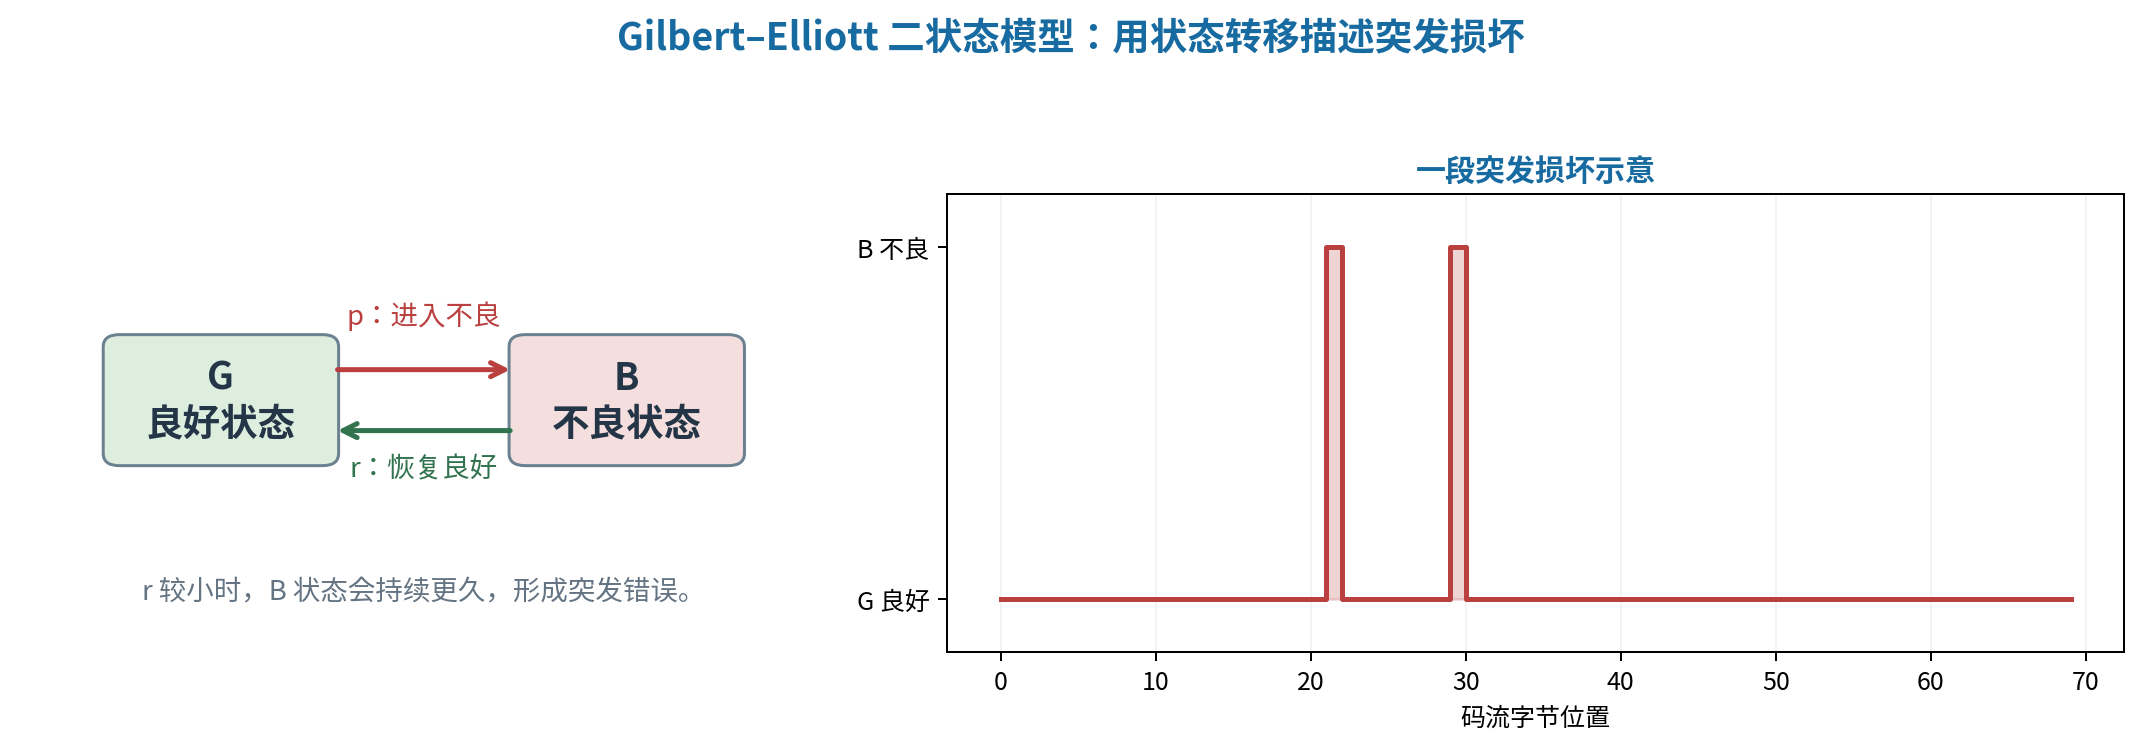
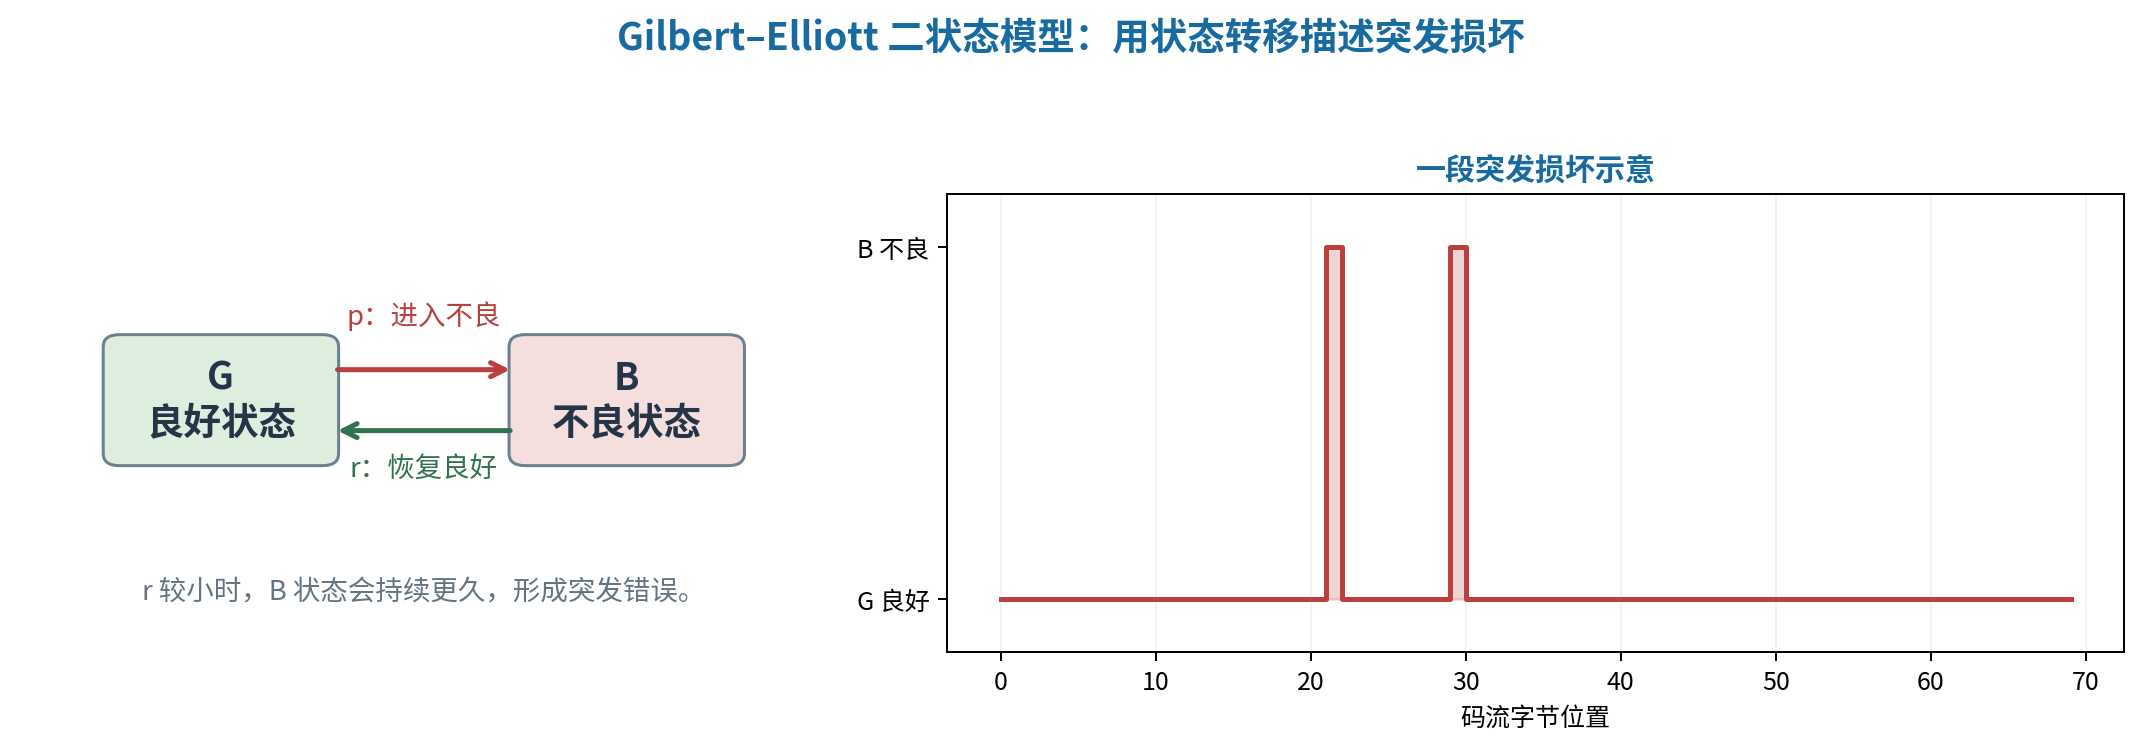
Use simplified Chinese fonts in background figures

diff --git a/tools/build_slides.py b/tools/build_slides.py
@@ -147,7 +147,7 @@ def main():
     text(s,2.83,5.46,4.65,.55,'lifangcheng2002@163.com',19,'000000',True)
     text(s,8.0,5.46,4.65,.55,'kjwu@hust.edu.cn',19,'000000',True)
     # 2. Multimedia communication and the role of a bitstream.
-    s=d.slide('01 多媒体通信与码流损坏','图像和视频经过压缩编码后，以二进制码流的形式传输、存储和解析。')
+    s=d.slide('01 多媒体通信与码流','图像和视频经过压缩编码后，以二进制码流的形式传输、存储和解析。')
     flow=[('图像 / 视频\n信源',.72),('压缩编码\nJPEG / H.264',3.15),('信道或\n存储介质',5.58),('解码与\n视觉分析',8.01),('分类 / 检测\n内容理解',10.44)]
     for i,(label,x) in enumerate(flow):
         rect(s,x,2.12,2.05,.86,LIGHT,rounded=True)
@@ -155,14 +155,14 @@ def main():
         if i<4:text(s,x+2.08,2.35,.31,.35,'→',20,BLUE,True,PP_ALIGN.CENTER)
     text(s,.82,3.42,5.35,.42,'像素、压缩文件和字节序列',22,INK,True)
     text(s,.86,4.02,5.45,1.46,'同一幅图像可以有不同的表示：\n· 像素矩阵：适合传统视觉网络\n· JPEG 文件：包含标记、表和扫描数据\n· 字节序列：统一处理图像、视频和其他文件',18)
-    text(s,6.65,3.42,5.55,.42,'码流损坏为什么值得研究',22,INK,True)
+    text(s,6.65,3.42,5.55,.42,'码流中包含哪些信息',22,INK,True)
     rect(s,6.63,4.03,2.61,1.20,'DDEEDF',rounded=True)
-    text(s,6.80,4.20,2.27,.39,'传输 / 存储',19,'31734F',True,PP_ALIGN.CENTER)
-    text(s,6.80,4.69,2.27,.34,'可能出现错误字节',15,GRAY,align=PP_ALIGN.CENTER)
-    rect(s,9.63,4.03,2.61,1.20,'F5DEDE',rounded=True)
-    text(s,9.80,4.20,2.27,.39,'解码 / 理解',19,RED,True,PP_ALIGN.CENTER)
-    text(s,9.80,4.69,2.27,.34,'可能无法恢复像素',15,GRAY,align=PP_ALIGN.CENTER)
-    text(s,6.73,5.56,5.36,.90,'码流模型尝试跳过不可靠的解码过程，\n直接从字节中提取内容特征。',19,BLUE,True)
+    text(s,6.80,4.20,2.27,.39,'结构信息',19,'31734F',True,PP_ALIGN.CENTER)
+    text(s,6.80,4.66,2.27,.48,'文件标记、参数表\n帧类型',14,GRAY,align=PP_ALIGN.CENTER)
+    rect(s,9.63,4.03,2.61,1.20,'E8E2F3',rounded=True)
+    text(s,9.80,4.20,2.27,.39,'内容信息',19,'5A4A86',True,PP_ALIGN.CENTER)
+    text(s,9.80,4.66,2.27,.48,'扫描数据、图像与\n视频内容',14,GRAY,align=PP_ALIGN.CENTER)
+    text(s,6.73,5.56,5.36,.90,'码流既是传输和存储的载体，\n也是理解多媒体内容的一种表示。',19,BLUE,True)
     # 3. JPEG structure.
     s=d.slide('02 JPEG：从文件标记到扫描数据','JPEG 不是一串无意义的数字；不同段落共同描述图像如何被解码。')
     picture(s,RESEARCH_FIGURES/'jpeg_bitstream_structure.png',.76,1.94,11.82,3.72)

diff --git a/tools/build_background_figures.py b/tools/build_background_figures.py
@@ -3,12 +3,28 @@ import numpy as np
 import matplotlib.pyplot as plt
 from matplotlib import font_manager
 from matplotlib.patches import FancyBboxPatch, FancyArrowPatch, Rectangle
+from fontTools.ttLib import TTCollection
 
 OUT=Path('research/figures'); OUT.mkdir(parents=True,exist_ok=True)
-font_manager.fontManager.addfont('/usr/share/fonts/opentype/noto/NotoSansCJK-Regular.ttc')
-font_manager.fontManager.addfont('/usr/share/fonts/opentype/noto/NotoSansCJK-Bold.ttc')
-plt.rcParams['font.family']='Noto Sans CJK JP'
-plt.rcParams['axes.unicode_minus']=False
+FONT_CACHE=Path('/tmp/byteformer_noto_cjk_sc')
+FONT_CACHE.mkdir(parents=True,exist_ok=True)
+
+def extract_sc_font(source, target, face_index):
+    """Extract the Simplified Chinese face from the system CJK collection."""
+    target=Path(target)
+    if not target.exists():
+        TTCollection(source).fonts[face_index].save(target)
+    font_manager.fontManager.addfont(str(target))
+
+extract_sc_font('/usr/share/fonts/opentype/noto/NotoSansCJK-Regular.ttc', FONT_CACHE/'NotoSansCJKsc-Regular.ttf', 2)
+extract_sc_font('/usr/share/fonts/opentype/noto/NotoSansCJK-Bold.ttc', FONT_CACHE/'NotoSansCJKsc-Bold.ttf', 2)
+# Use one installed CJK sans-serif family for every label in the generated figures.
+# Keeping the family in the rcParams also covers Matplotlib-generated tick labels.
+plt.rcParams.update({
+    'font.family': 'sans-serif',
+    'font.sans-serif': ['Noto Sans CJK SC'],
+    'axes.unicode_minus': False,
+})
 
 # JPEG structure + representative byte row.
 fig, ax=plt.subplots(figsize=(12,4.3),dpi=180)
